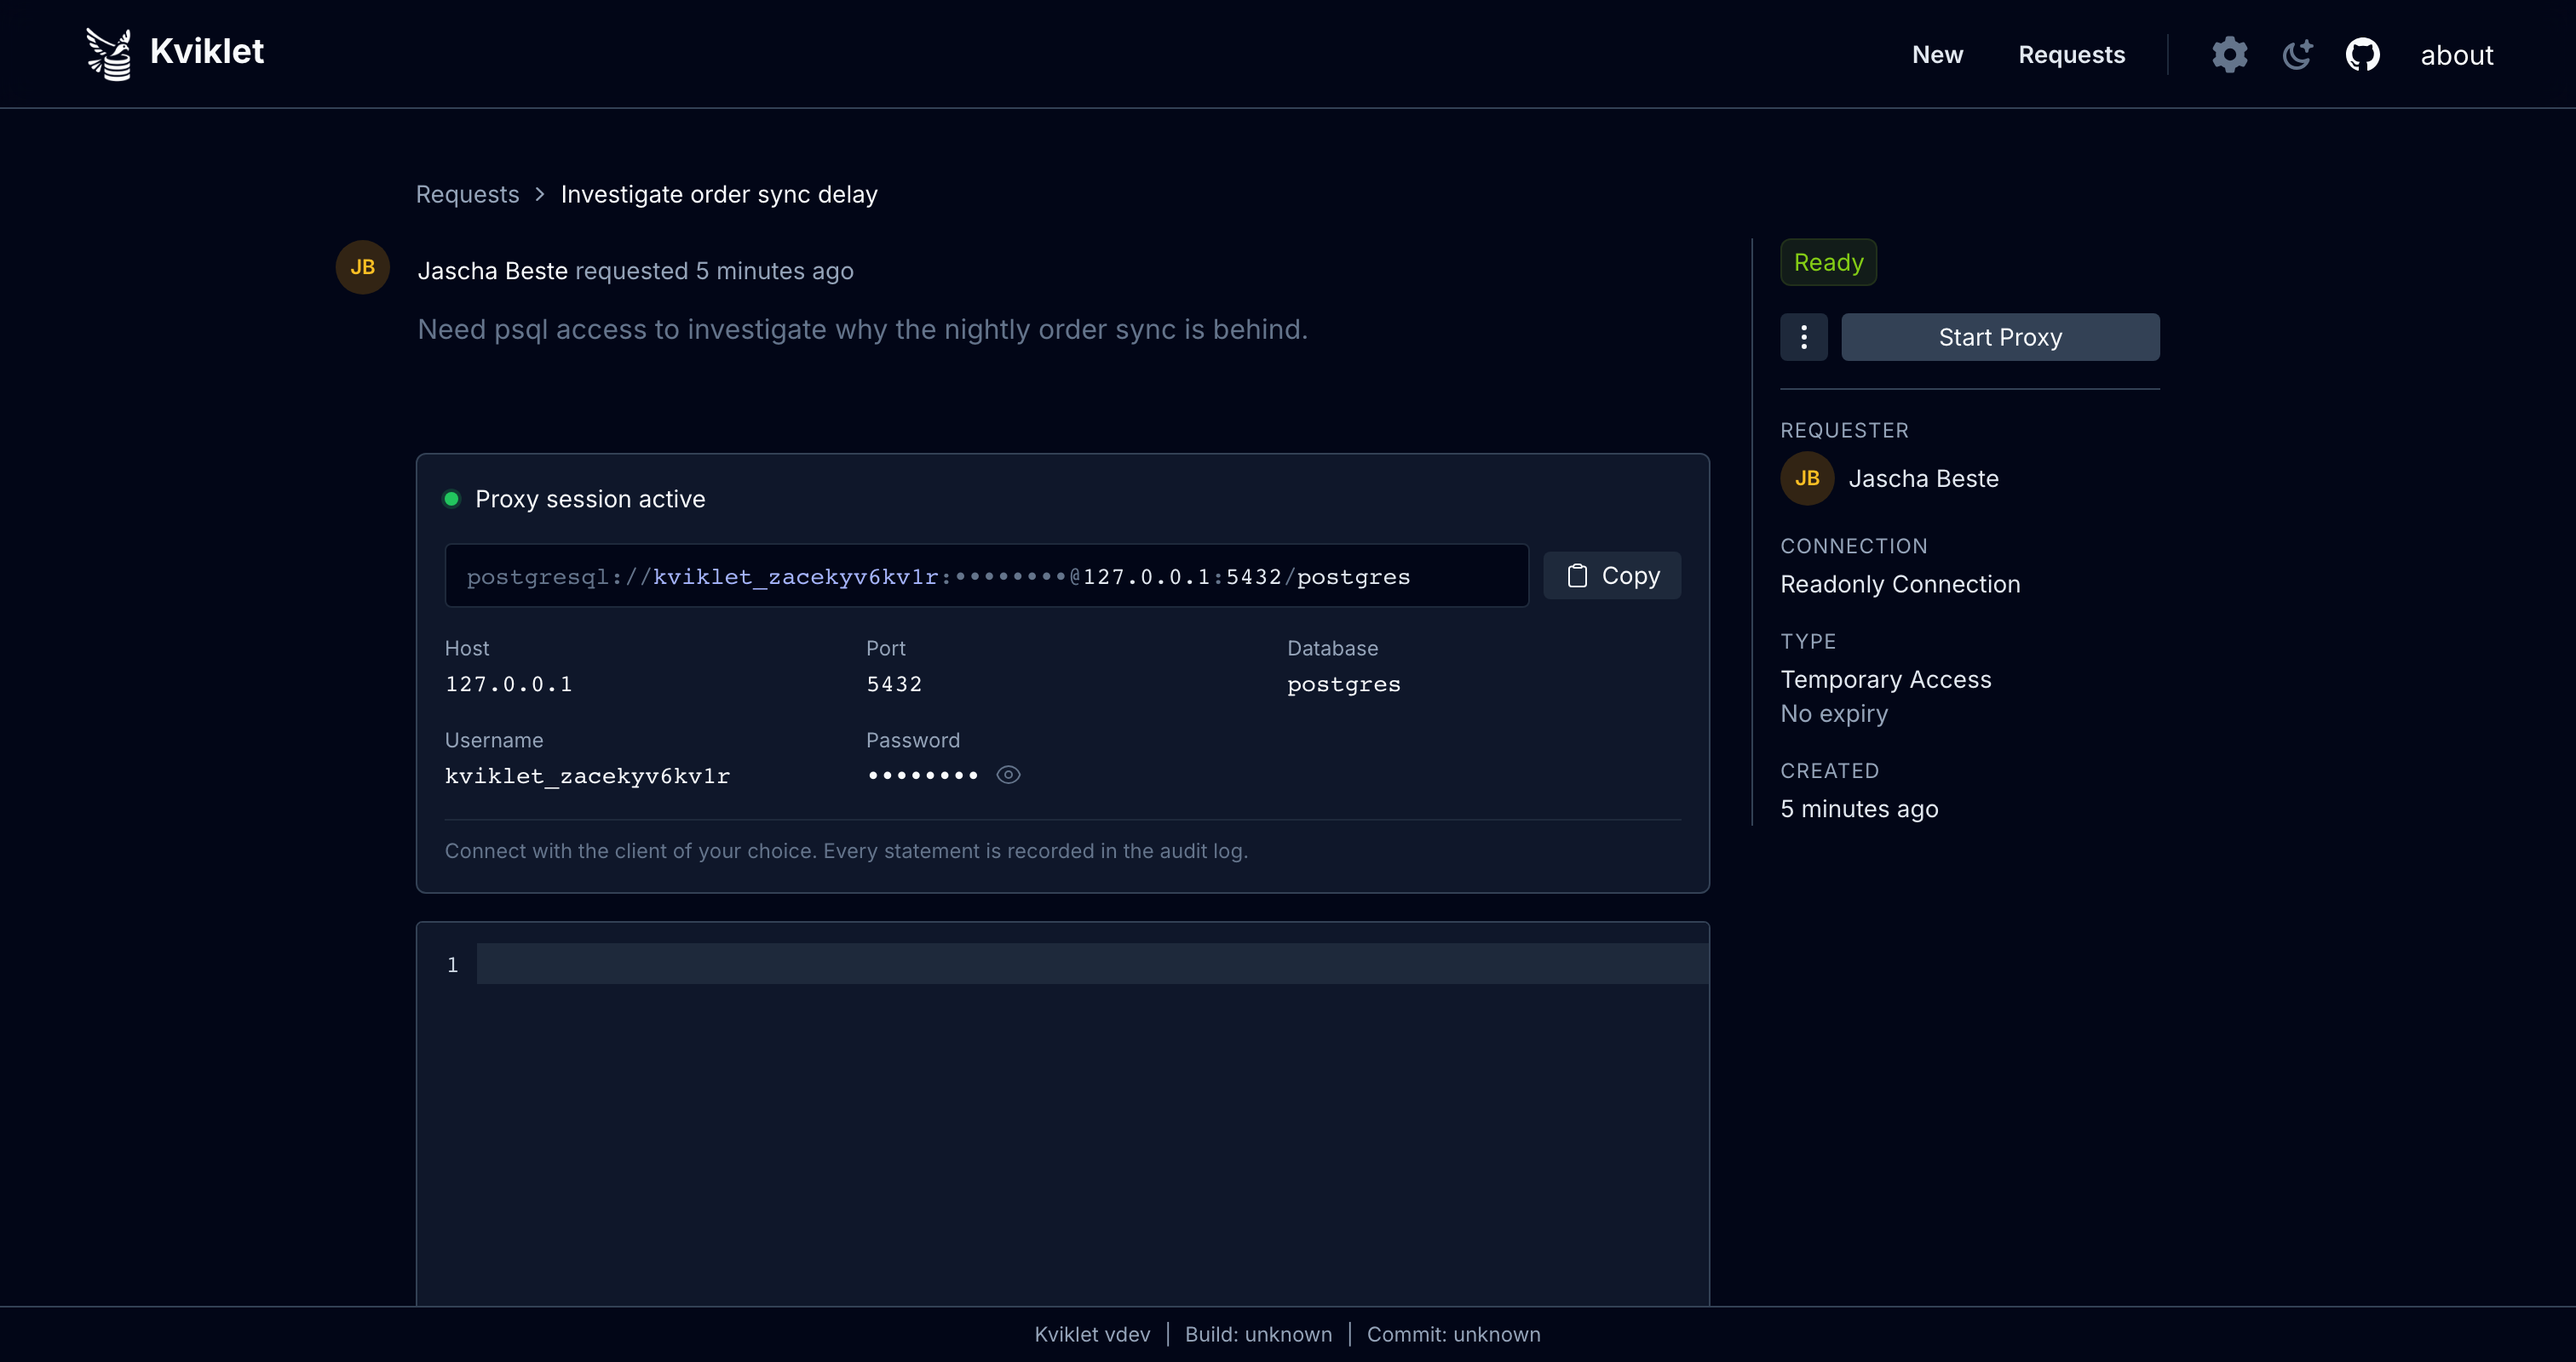
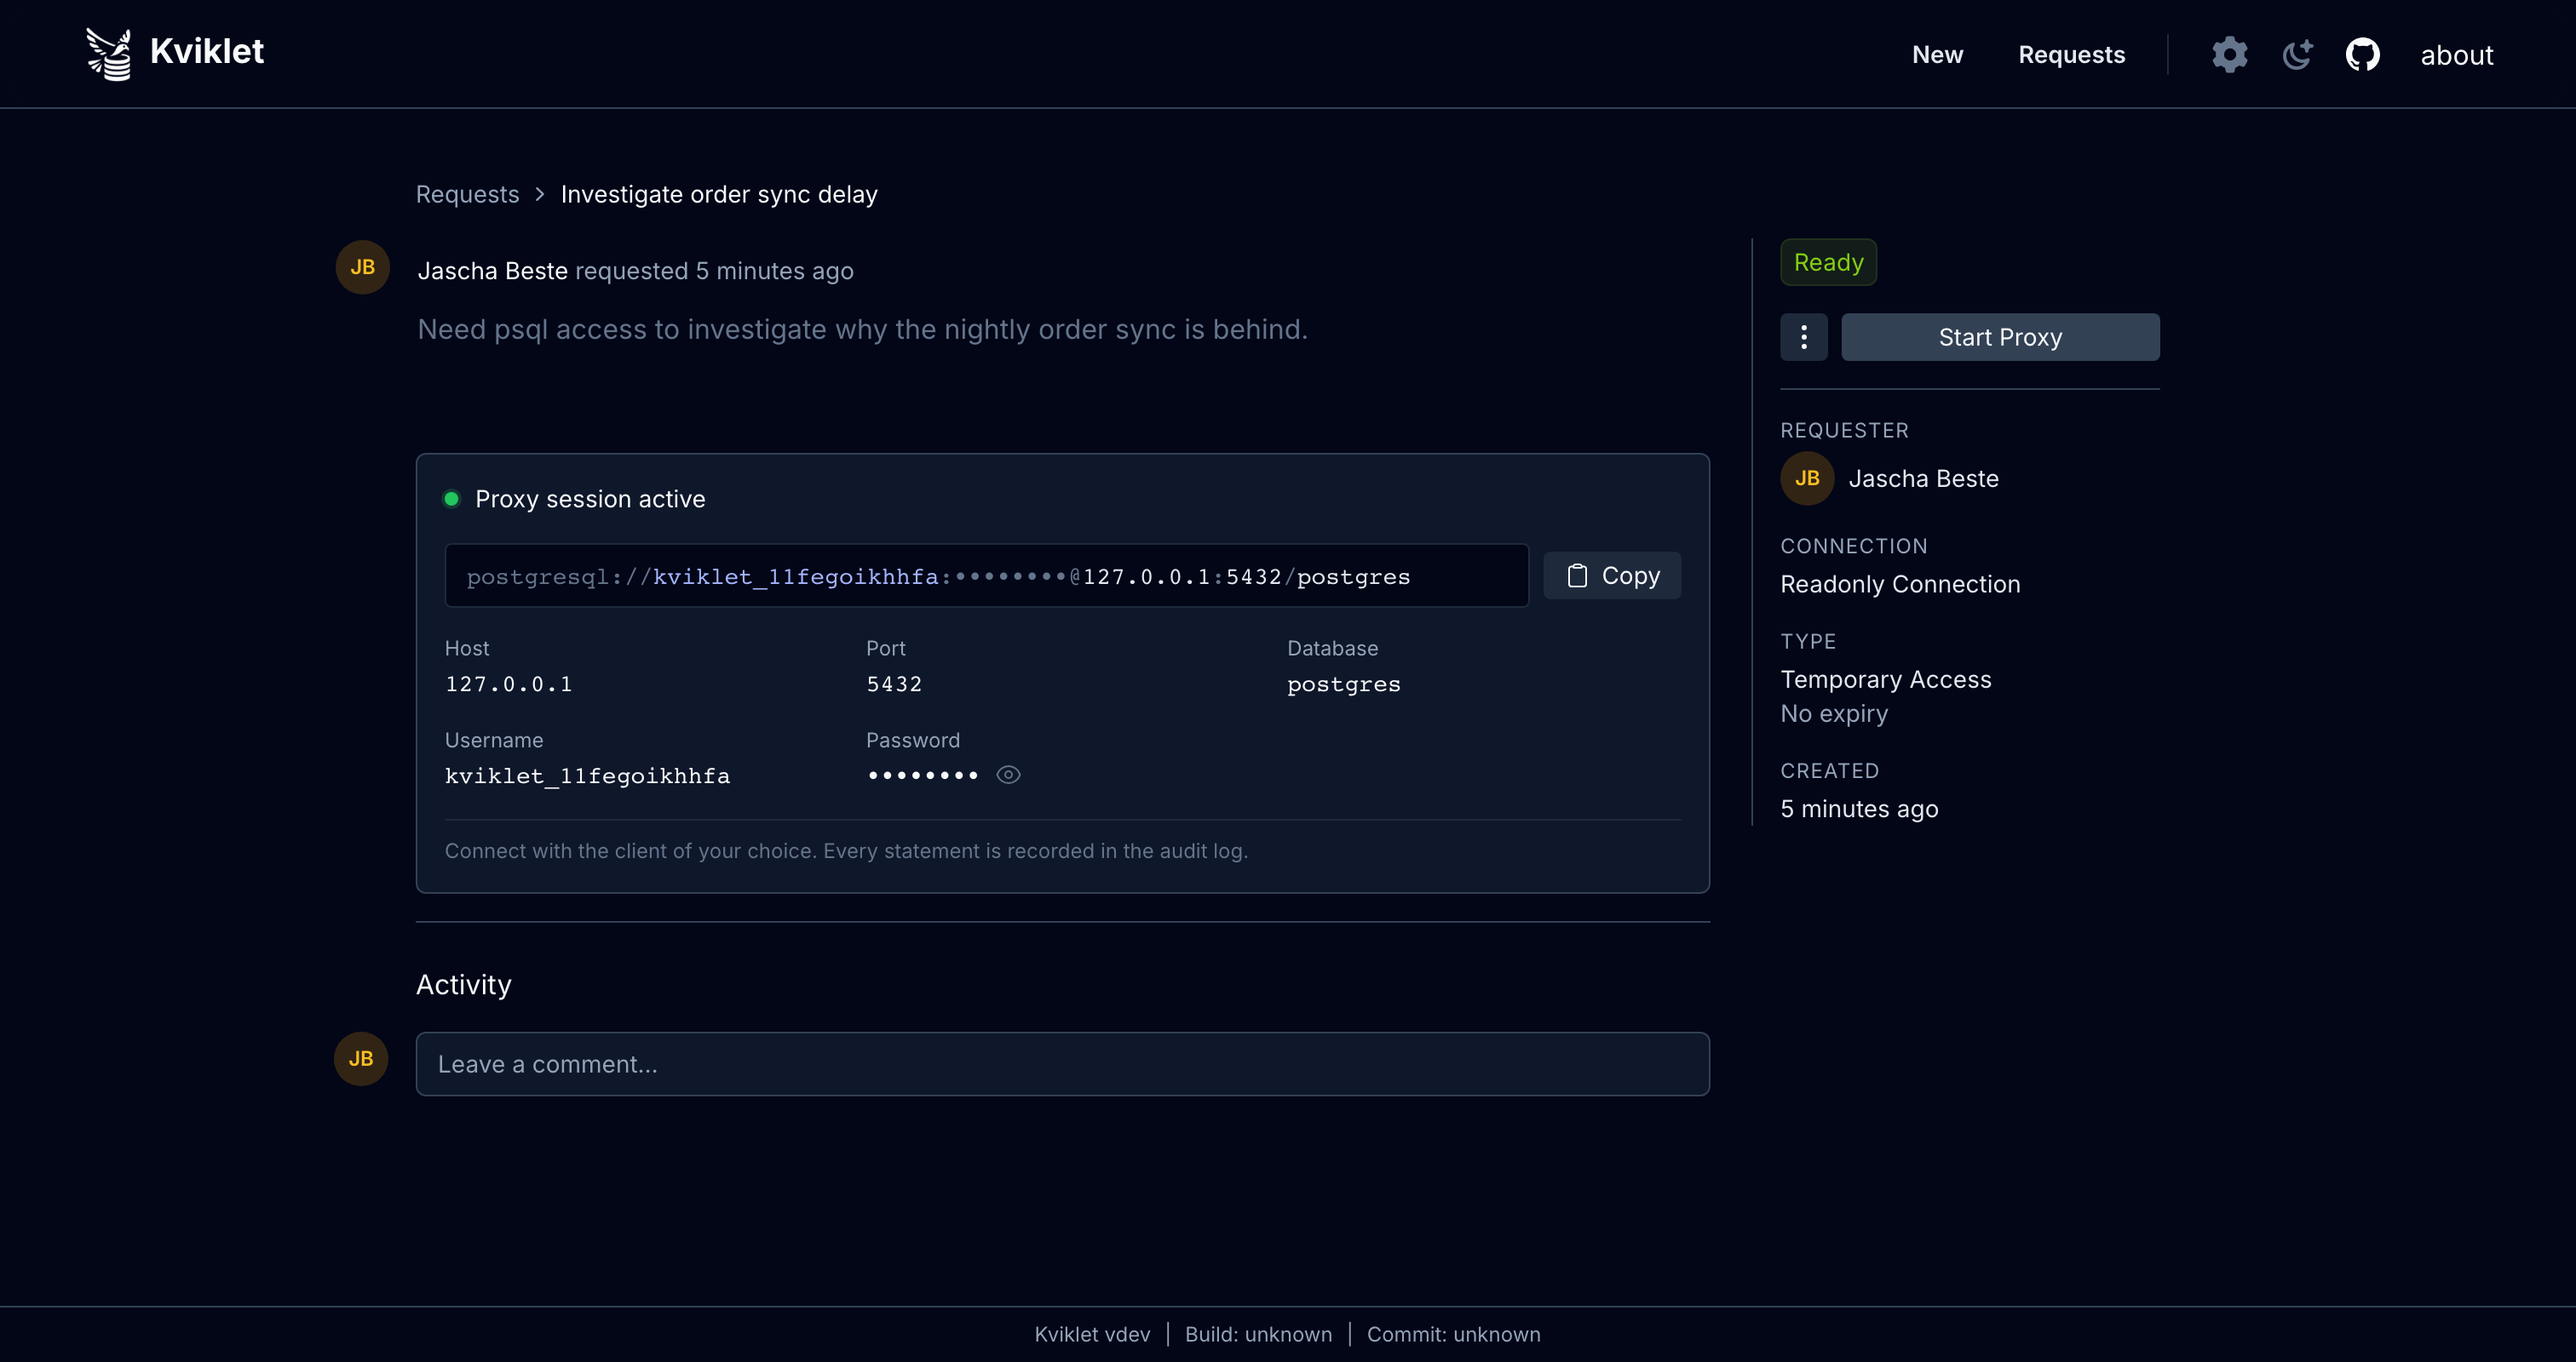
Show the proxy connection card in place of the session editor (#564)

diff --git a/frontend/src/routes/Review/index.tsx b/frontend/src/routes/Review/index.tsx
@@ -12,6 +12,7 @@ import DatasourceRequestActions from "./DatasourceRequestActions";
 import DatasourceRequestDisplay from "./DatasourceRequestDisplay";
 import KubernetesRequestActions from "./KubernetesRequestActions";
 import KubernetesRequestDisplay from "./KubernetesRequestDisplay";
+import ProxyConnectionCard from "./ProxyConnectionCard";
 import RequestSidebar from "./RequestSidebar";
 
 interface RequestReviewParams {
@@ -103,7 +104,6 @@ function RequestReviewContent() {
                     results={results}
                     dataLoading={dataLoading}
                     executionError={executionError}
-                    proxyResponse={proxyResponse}
                   ></DatasourceRequestDisplay>
                 ) : (
                   <KubernetesRequestDisplay
@@ -112,14 +112,17 @@ function RequestReviewContent() {
                     results={kubernetesResults}
                     dataLoading={dataLoading}
                     executionError={executionError}
-                    proxyResponse={proxyResponse}
                   ></KubernetesRequestDisplay>
                 )}
                 {access &&
                   // The session takes the statement's place. It only connects once
                   // the request is approved; before that the page has nothing to
                   // sync and reviewers should not open sessions on pending requests.
-                  (request.reviewStatus === "APPROVED" ? (
+                  // A started proxy takes over the slot: the user connects with
+                  // their own client, so the web editor has nothing left to do.
+                  (proxyResponse ? (
+                    <ProxyConnectionCard proxy={proxyResponse} />
+                  ) : request.reviewStatus === "APPROVED" ? (
                     <LiveSessionWebsockets
                       request={request}
                       expired={access.expired}

diff --git a/frontend/src/routes/Review/DatasourceRequestDisplay.tsx b/frontend/src/routes/Review/DatasourceRequestDisplay.tsx
@@ -1,12 +1,10 @@
 import {
-  ProxyResponse,
   ExecuteResponseResult,
   DatasourceExecutionRequestResponseWithComments,
 } from "../../api/ExecutionRequestApi";
 import MultiResult from "../../components/MultiResult";
 import Spinner from "../../components/Spinner";
 import DatasourceRequestBox from "./DatasourceRequestBox";
-import ProxyConnectionCard from "./ProxyConnectionCard";
 
 function DatasourceRequestDisplay({
   request,
@@ -14,14 +12,12 @@ function DatasourceRequestDisplay({
   results,
   dataLoading,
   executionError,
-  proxyResponse,
 }: {
   request: DatasourceExecutionRequestResponseWithComments | undefined;
   updateRequest: (request: { statement?: string }) => Promise<void>;
   results: ExecuteResponseResult[] | undefined;
   dataLoading: boolean;
   executionError: string | undefined;
-  proxyResponse: ProxyResponse | undefined;
 }) {
   return (
     <>
@@ -44,7 +40,6 @@ function DatasourceRequestDisplay({
           {executionError}
         </div>
       )}
-      {proxyResponse && <ProxyConnectionCard proxy={proxyResponse} />}
     </>
   );
 }

diff --git a/frontend/src/routes/Review/KubernetesRequestDisplay.tsx b/frontend/src/routes/Review/KubernetesRequestDisplay.tsx
@@ -1,12 +1,10 @@
 import {
-  ProxyResponse,
   KubernetesExecutionRequestResponseWithComments,
   KubernetesExecuteResponse,
 } from "../../api/ExecutionRequestApi";
 import Spinner from "../../components/Spinner";
 import ShellResult from "../../components/ShellResult";
 import KubernetesRequestBox from "./KubernetesRequestBox";
-import ProxyConnectionCard from "./ProxyConnectionCard";
 
 function KubernetesRequestDisplay({
   request,
@@ -14,14 +12,12 @@ function KubernetesRequestDisplay({
   results,
   dataLoading,
   executionError,
-  proxyResponse,
 }: {
   request: KubernetesExecutionRequestResponseWithComments;
   updateRequest: (request: { command?: string }) => Promise<void>;
   results: KubernetesExecuteResponse | undefined;
   dataLoading: boolean;
   executionError: string | undefined;
-  proxyResponse: ProxyResponse | undefined;
 }) {
   return (
     <>
@@ -38,7 +34,6 @@ function KubernetesRequestDisplay({
           {executionError}
         </div>
       )}
-      {proxyResponse && <ProxyConnectionCard proxy={proxyResponse} />}
     </>
   );
 }
